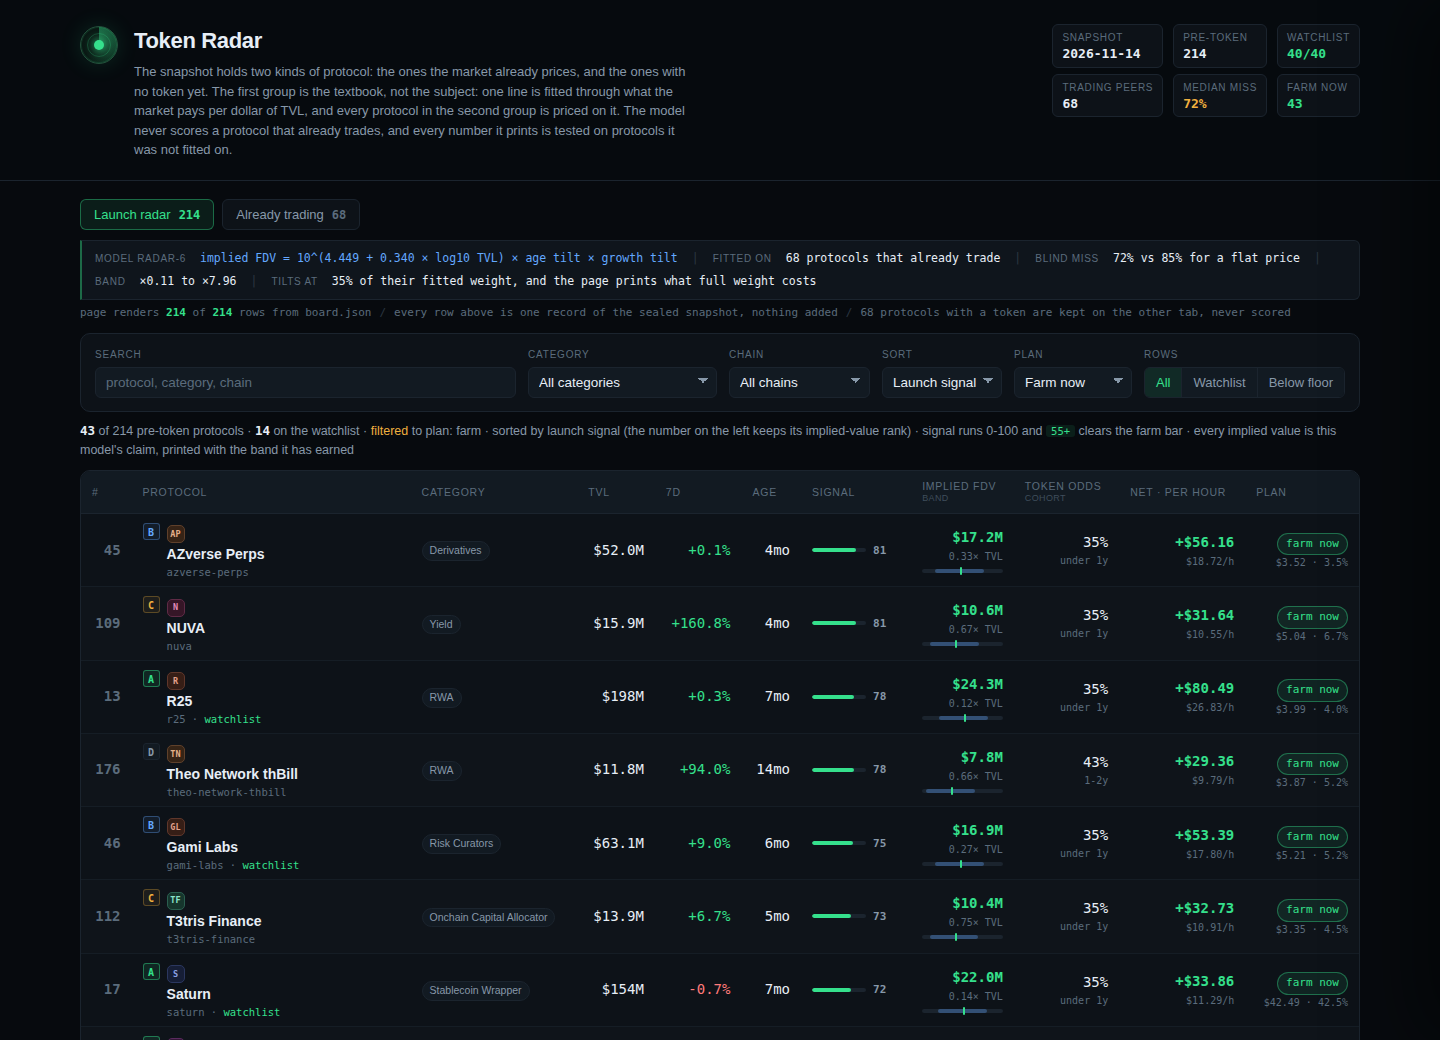
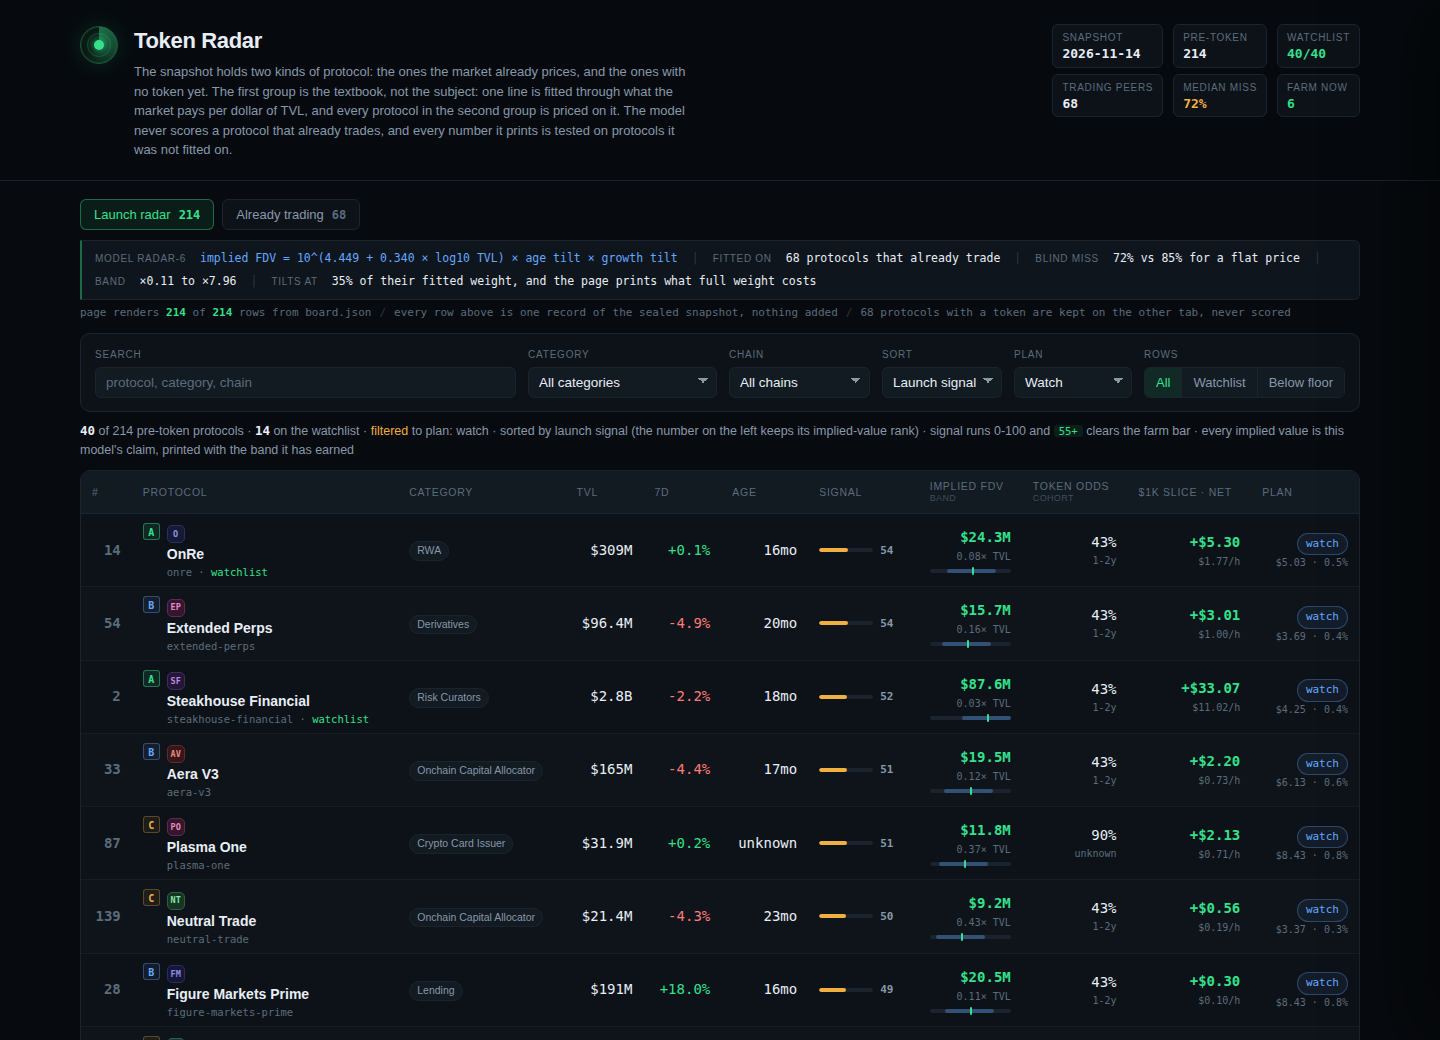
Price every plan on one slice and print the band's calibration
A position that shrinks with TVL gave each row its own denominator, so the net column could not
be read across rows: every plan now runs on the same $1,000 slice. The airdrop credit drops to
0.0001% of the implied launch, which puts the best plan near $11 an hour instead of $120. The
band's calibration is printed beside it: the middle half holds 50% of the blind errors and the
printed band holds 79%, against the 50% and 80% it promises.

diff --git a/dashboard/app.js b/dashboard/app.js
@@ -134,7 +134,7 @@ function drawModel() {
     ['The guard', `A shallow line would value a $5M protocol at $400M. Every row is held inside the multiples the ${FIT.n} trading protocols actually carry: <b>${H.multiple.low}×</b> to <b>${H.multiple.high}×</b> TVL, median <b>${H.multiple.median}×</b>.`],
     ['The band', `The 10th and 90th percentile blind miss are <b>${mult(FIT.low)}</b> and <b>${mult(FIT.high)}</b>, covering <b>${Math.round(FIT.coverage * 100)}%</b> of the errors the model made on protocols it had not seen. The row prints that band, not a promise.`],
     ['What lost', `The chain count, a squared TVL term, a category offset and a k-nearest-neighbour comps curve were all fitted and all priced worse out of sample. The table below is the test that decided it.`],
-    ['What it pays', `A farm is credited with <b>0.001%</b> of the implied launch, weighted by the odds a token exists at that age, against gas and the yield given up: the net column, and the hour it buys.`],
+    ['What it pays', `A farm is credited with <b>0.0001%</b> of the implied launch, weighted by the odds a token exists at that age, against gas and the yield given up: the net column, and the hour it buys.`],
     ['The odds', `Age buckets are counted in the snapshot itself: of every token-able protocol aged two to three years, <b>${Math.round((H.odds.find((o) => o.bucket === '2-3y')?.share ?? 0) * 100)}%</b> already hold a token. Cross-sectional, not a forecast for one protocol.`],
   ];
   el('factors').innerHTML = factors.map(([k, v]) => `<li><span class="k">${k}</span><span class="v">${v}</span></li>`).join('');
@@ -152,6 +152,11 @@ function drawModel() {
     `<tr><td>flat: everything at the peer median</td><td>${Math.round(FIT.flat * 100)}%</td></tr>` +
     `<tr><td>200 random 70/30 splits</td><td>${Math.round(FIT.random.miss * 100)}% vs ${Math.round(FIT.random.flat * 100)}% flat</td></tr>` +
     `<tr><td>older 60% / newer 40% split (${FIT.ts.n} held out)</td><td class="lose">${Math.round(FIT.ts.miss * 100)}% vs ${Math.round(FIT.ts.flat * 100)}% flat</td></tr>` +
+    `</table>` +
+    `<h4>Does the band hold what it promises</h4><table>` +
+    `<tr><th>Band</th><th>errors inside</th><th>promised</th></tr>` +
+    `<tr><td>×${(10 ** FIT.mid_low).toFixed(2)} to ×${(10 ** FIT.mid_high).toFixed(2)} (middle half)</td><td class="win">${Math.round(FIT.coverage_mid * 100)}%</td><td>50%</td></tr>` +
+    `<tr><td>×${(10 ** FIT.low).toFixed(2)} to ×${(10 ** FIT.high).toFixed(2)} (the printed band)</td><td class="win">${Math.round(FIT.coverage * 100)}%</td><td>80%</td></tr>` +
     `</table>`;
 
   el('caveat').textContent =
@@ -244,8 +249,17 @@ function drawPlanStrip() {
   el('planStrip').innerHTML =
     cell('farm', H.totals.farm, 'Farm now', `Signal 55+ and the plan clears its own cost: $${Math.round(net).toLocaleString('en-US')} credited back against $${Math.round(cost)} of gas and yield given up, on $${capital.toLocaleString('en-US')} of capital.`) +
     cell('watch', H.totals.watch, 'Watch', 'Pays for itself and the signal is not there yet: the position is right, the timing is not.') +
-    cell('thin', H.totals.thin, 'Thin', 'The cost is a small share of the position, but the credited airdrop does not cover it.') +
-    cell('pass', H.totals.pass, 'Pass', 'Gas above 10% of the capital it needs: the plan cannot pay for itself on this chain.');
+    cell('thin', H.totals.thin, 'Thin', 'The credited airdrop covers at least half the gas and the yield given up, but not all of it: a small position can still be worth opening.') +
+    cell('pass', H.totals.pass, 'Pass', 'The credit does not cover half the cost. On this chain, at this size, the plan does not pay for the work.');
+  // The plan column is a price list; this is the shortlist. Best net per hour on the watchlist,
+  // which is the only list the bounty asks to be covered in full.
+  const best = rows
+    .filter((r) => r.wl)
+    .sort((a, b) => b.perh - a.perh)
+    .slice(0, 3)
+    .map((r, i) => `${i + 1}. <b>${esc(r.name)}</b> ${signed(r.perh)}/h on a ${usdFull(r.capital)} slice`)
+    .join('<span class="sep">·</span>');
+  el('planStrip').innerHTML += `<p class="best"><span class="k">Best on the watchlist</span>${best}</p>`;
 }
 
 /* ---------- drawing the board ---------- */
@@ -395,14 +409,14 @@ function open(slug) {
     <h3 class="sec">What it pays <span class="chain">not what it costs</span></h3>
     <dl class="kv">
       <dt>Odds a token exists at ${cohort(r.age)}</dt><dd>${Math.round(r.odds * 100)}%</dd>
-      <dt>Credited airdrop, 0.001% of the implied launch</dt><dd>$${r.airdrop.toFixed(2)}</dd>
+      <dt>Credited airdrop, 0.0001% of the implied launch</dt><dd>$${r.airdrop.toFixed(2)}</dd>
       <dt>Gas, ${4 + Math.round(r.hold / 7)} transactions on ${esc(chain)}</dt><dd>$${r.gas.toFixed(2)}</dd>
       <dt>Yield given up over ${r.hold} days</dt><dd>$${(r.cost - r.gas).toFixed(2)}</dd>
       <dt>Net, over ${r.hours} hours of work</dt><dd class="${r.net >= 0 ? 'v' : 'hl'}">${signed(r.net)} · $${r.perh.toFixed(2)}/h</dd>
       <dt>Breaks even at an implied launch of</dt><dd>${r.breakeven === null ? 'never' : usdFull(r.breakeven)}</dd>
       <dt>Verdict</dt><dd class="${r.verdict === 'farm' ? 'v' : 'hl'}">${r.verdict === 'farm' ? 'farm now' : r.verdict}</dd>
     </dl>
-    <p class="scale">The plan needs ${usdFull(r.capital)} of capital and costs ${usdFull(r.cost)}, which is ${pctOf(r.burden)} of the position. It is credited 0.001% of the implied launch, weighted by the ${Math.round(r.odds * 100)}% odds this age cohort has launched a token: ${signed(r.net)} net, or $${r.perh.toFixed(2)} an hour across ${r.hours} hours.</p>
+    <p class="scale">Every plan is priced on the same ${usdFull(r.capital)} slice, so rows compare; this one costs ${usdFull(r.cost)}, ${pctOf(r.burden)} of the slice. It is credited 0.0001% of the implied launch, weighted by the ${Math.round(r.odds * 100)}% odds this age cohort has launched a token: ${signed(r.net)} net, or $${r.perh.toFixed(2)} an hour across ${r.hours} hours.</p>
 
     <h3 class="sec">How to farm it</h3>
     <ol class="steps">${r.steps.map((s) => `<li><p>${esc(s)}</p></li>`).join('')}</ol>

diff --git a/lib/model.ts b/lib/model.ts
@@ -55,6 +55,10 @@ export type Fit = {
   high: number;
   /** Share of leave-one-out misses the P10-P90 band covers. */
   coverage: number;
+  /** The middle band and the share of blind errors it actually holds. */
+  mid_low: number;
+  mid_high: number;
+  coverage_mid: number;
   /** Time split: fit on the older 60%, price the younger 40% it never saw, and the flat baseline. */
   ts: { n: number; miss: number; flat: number };
   /** Two hundred random 70/30 splits: the same question without the calendar deciding the answer. */
@@ -138,9 +142,9 @@ const DAY = 86_400_000;
  *  at full strength both raised the blind miss, and the page prints both numbers. */
 const TILT_WEIGHT = 0.35;
 
-/** The launch hands one qualifying wallet 0.001% of its value, and a farm costs three hours of
+/** The launch hands one qualifying wallet 0.0001% of its value, and a farm costs three hours of
  *  hands-on work. Both are assumptions, printed on the page with the net column. */
-const AIRDROP_SHARE = 0.00001;
+const AIRDROP_SHARE = 0.000001;
 const WORK_HOURS = 3;
 
 export function parseSnapshot(text: string): Snapshot {
@@ -312,6 +316,12 @@ function fitModel(peers: { f: Features; y: number }[]): Fit {
   const low = quantile(looResiduals, 0.1);
   const high = quantile(looResiduals, 0.9);
   const inside = looResiduals.filter((r) => r >= low && r <= high).length;
+  // A band is only worth printing if it holds the share of errors it promises. The middle band is
+  // the interquartile range of the blind errors: it should hold about half of them, and the 10-90
+  // band about four fifths. Both numbers are printed beside the band they belong to.
+  const midLow = quantile(looResiduals, 0.25);
+  const midHigh = quantile(looResiduals, 0.75);
+  const inMid = looResiduals.filter((r) => r >= midLow && r <= midHigh).length;
 
   // A second blind test, on time rather than on rows: fit on the protocols that were already old
   // when the snapshot was taken, then price the younger half it never saw.
@@ -349,6 +359,9 @@ function fitModel(peers: { f: Features; y: number }[]): Fit {
     low,
     high,
     coverage: looResiduals.length > 0 ? inside / looResiduals.length : 0,
+    mid_low: midLow,
+    mid_high: midHigh,
+    coverage_mid: looResiduals.length > 0 ? inMid / looResiduals.length : 0,
     ts: { n: tsN, miss: tsN > 0 ? median(tsMisses) : 0, flat: tsN > 0 ? median(tsFlatMisses) : 0 },
     random: randomSplit(peers, pred),
     points: peers.map((r) => [Math.round(r.f.ltvl * 1000) / 1000, Math.round(r.y * 1000) / 1000]),
@@ -441,15 +454,10 @@ const GAS_PER_TX: Record<string, number> = {
 };
 const DEFAULT_GAS = 0.35;
 
-/** The smallest position that registers in a protocol of this size, in dollars. */
-function capitalFor(tvl: number): number {
-  if (tvl >= 5e9) return 400;
-  if (tvl >= 1e9) return 250;
-  if (tvl >= 2e8) return 150;
-  if (tvl >= 5e7) return 100;
-  if (tvl >= 1e7) return 75;
-  return 50;
-}
+/** Every plan is priced on the same slice, so one row can be compared with the next: a position
+ *  that shrinks with the protocol's TVL gives every row a different denominator and makes the net
+ *  column unreadable. $1,000 is the slice, on every chain, for every protocol. */
+const SLICE_USD = 1000;
 
 /** How long the position has to stay open for a snapshot to see it, from the protocol's age. */
 function holdDaysFor(age: number | null): number {
@@ -687,17 +695,17 @@ export function buildRadar(snapshot: Snapshot): { board: Row[]; radar: Radar } {
     const tvl = r.p.tvl_usd ?? 0;
     const chain = r.p.chains[0] ?? 'its main chain';
     const gasTx = GAS_PER_TX[chain] ?? DEFAULT_GAS;
-    const capital = capitalFor(tvl);
+    const capital = SLICE_USD;
     const hold = holdDaysFor(r.age);
     const gas = Math.round(gasTx * (4 + Math.round(hold / 7)) * 100) / 100;
     const opportunity = (capital * 0.04 * hold) / 365;
     const cost = Math.round((gas + opportunity) * 100) / 100;
     const burden = capital > 0 ? cost / capital : 1;
-    // What the plan is worth, not just what it costs: 0.001% of the implied launch, weighted
+    // What the plan is worth, not just what it costs: 0.0001% of the implied launch, weighted
     // by the share of protocols this age that already hold a token, against everything it costs.
     const odds = oddsOf(r.age);
     const work = WORK_HOURS;
-    // What one qualifying wallet is handed if the launch gives it 0.001% of its value, weighted by
+    // What one qualifying wallet is handed if the launch gives it 0.0001% of its value, weighted by
     // the share of protocols this age that already hold a token.
     const airdrop = Math.round(r.implied * AIRDROP_SHARE * odds * 100) / 100;
     const net = Math.round((airdrop - cost) * 100) / 100;
@@ -706,7 +714,10 @@ export function buildRadar(snapshot: Snapshot): { board: Row[]; radar: Radar } {
     const breakEven = odds > 0 ? Math.round(cost / (AIRDROP_SHARE * odds)) : null;
     // The verdict is about whether to spend, not about what the protocol is worth: a plan that
     // does not clear its own cost closes whatever the implied value says.
-    const verdict = net > 0 ? (r.signal >= 55 ? 'farm' : 'watch') : burden > 0.1 ? 'pass' : 'thin';
+    // Four outcomes, each with a meaning a reader can act on: the plan pays and the timing is there,
+    // the plan pays but the timing is not, the credit covers at least half its cost, or it does not.
+    const covered = cost > 0 ? airdrop / cost : 1;
+    const verdict = net > 0 ? (r.signal >= 55 ? 'farm' : 'watch') : covered >= 0.5 ? 'thin' : 'pass';
     const row: Row = {
       rank: i + 1,
       slug: r.p.slug,

diff --git a/dashboard/app.css b/dashboard/app.css
@@ -350,3 +350,22 @@ tr:hover .mark { border-color: hsl(var(--h) 45% 40%); }
 .scatter .legend .k.band { background: none; border: 1px dashed rgba(99, 168, 255, 0.6); border-radius: 0; height: 0; width: 14px; }
 .scatter .legend .sep { margin: 0 8px; color: #3f4c59; }
 .scatter .legend b { color: var(--value); font-weight: 600; }
+
+.plan-strip .best {
+  margin: 14px 0 0;
+  font: 12px/1.6 var(--mono);
+  color: #93a4b5;
+}
+.plan-strip .best .k {
+  display: inline-block;
+  margin-right: 12px;
+  padding: 2px 7px;
+  border: 1px solid #23303c;
+  border-radius: 4px;
+  color: var(--value);
+  letter-spacing: 0.06em;
+  text-transform: uppercase;
+  font-size: 9.5px;
+}
+.plan-strip .best b { color: #d8e4ef; font-weight: 600; }
+.plan-strip .best .sep { margin: 0 8px; color: #3f4c59; }

diff --git a/dashboard/index.html b/dashboard/index.html
@@ -74,7 +74,7 @@
           <th>Signal</th>
           <th class="num">Implied FDV <span class="thnote">band</span></th>
           <th class="num">Token odds <span class="thnote">cohort</span></th>
-          <th class="num">Net · per hour</th>
+          <th class="num">$1k slice · net</th>
           <th class="num">Plan</th>
         </tr></thead>
         <tbody></tbody>

diff --git a/README.md b/README.md
@@ -64,10 +64,10 @@ cross-sectional, from one day of data, and the page says so.
 Every protocol carries a five-step plan computed from its own TVL, chain and age:
 
 ```
-airdrop = 0.001% of implied × odds at that age
+airdrop = 0.0001% of implied × odds at that age
 cost    = gas (per-chain table) + 4%/yr yield given up over the hold
 net     = airdrop − cost          · per hour = net / 3 hours of work
-break-even implied launch = cost / (0.001% × odds)
+break-even implied launch = cost / (0.0001% × odds)
 ```
 
 The verdict comes from the net, not from the cost: `farm now` (net positive, signal 55+), `watch`
